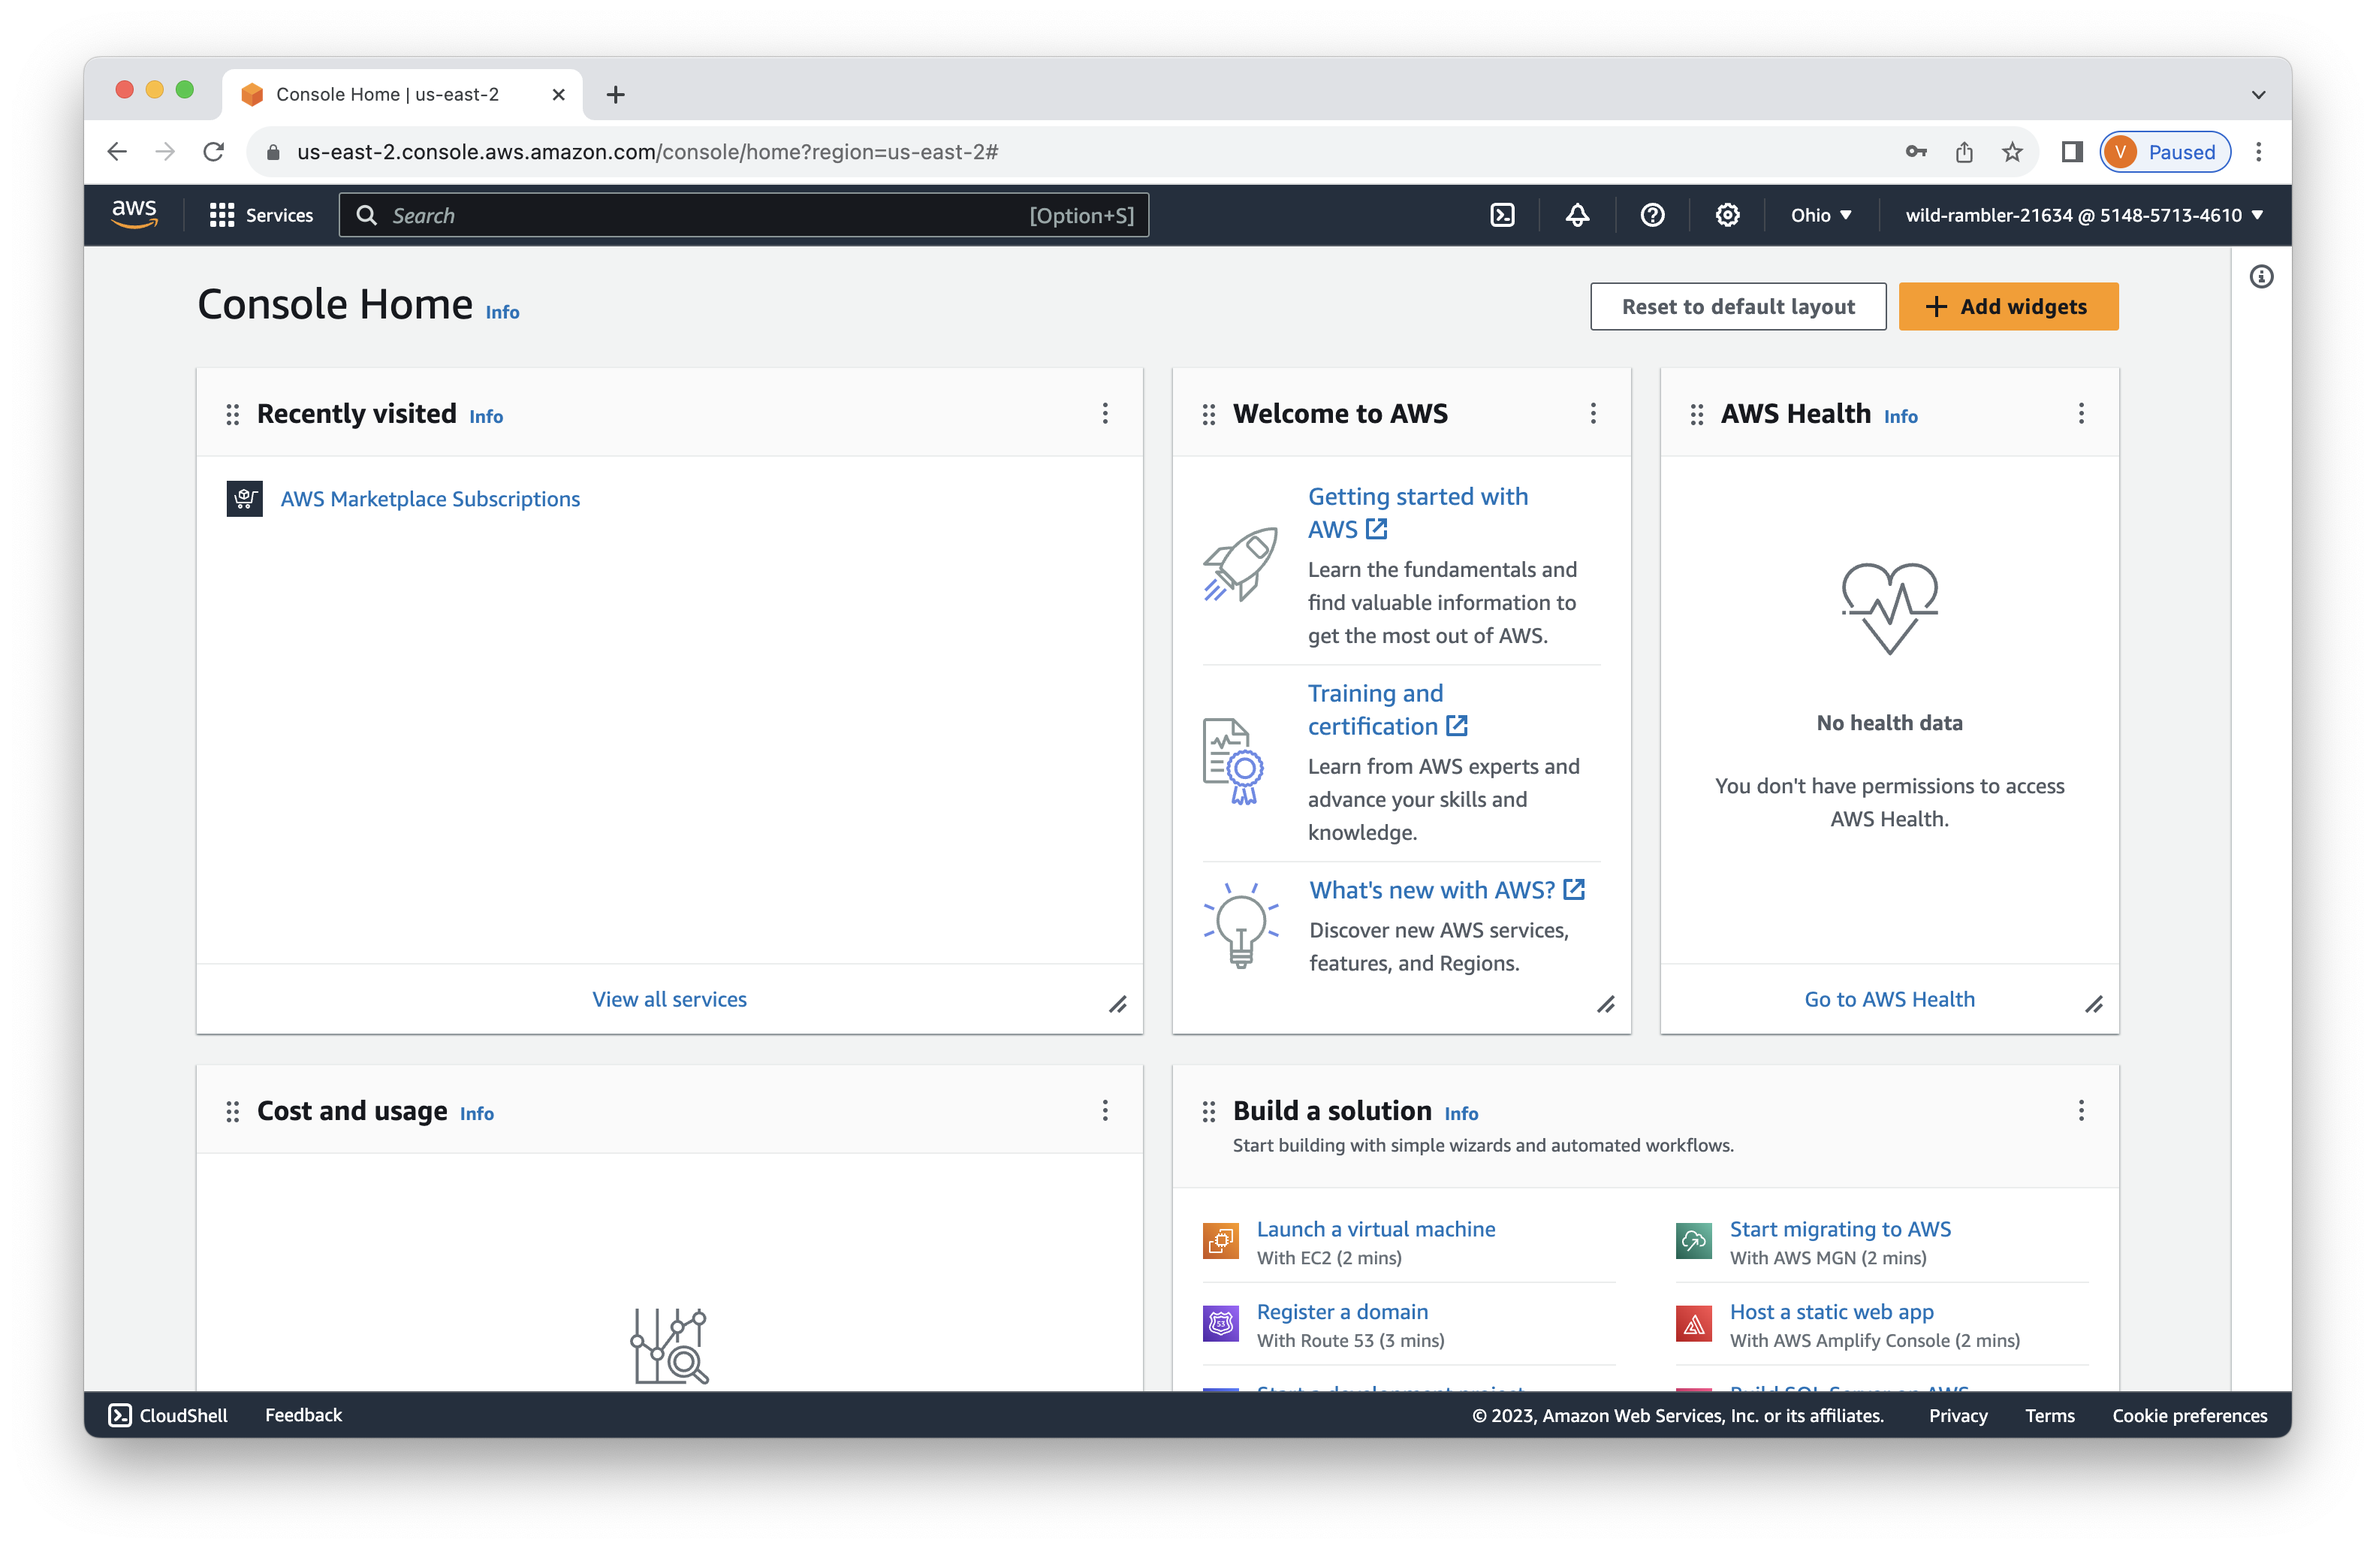
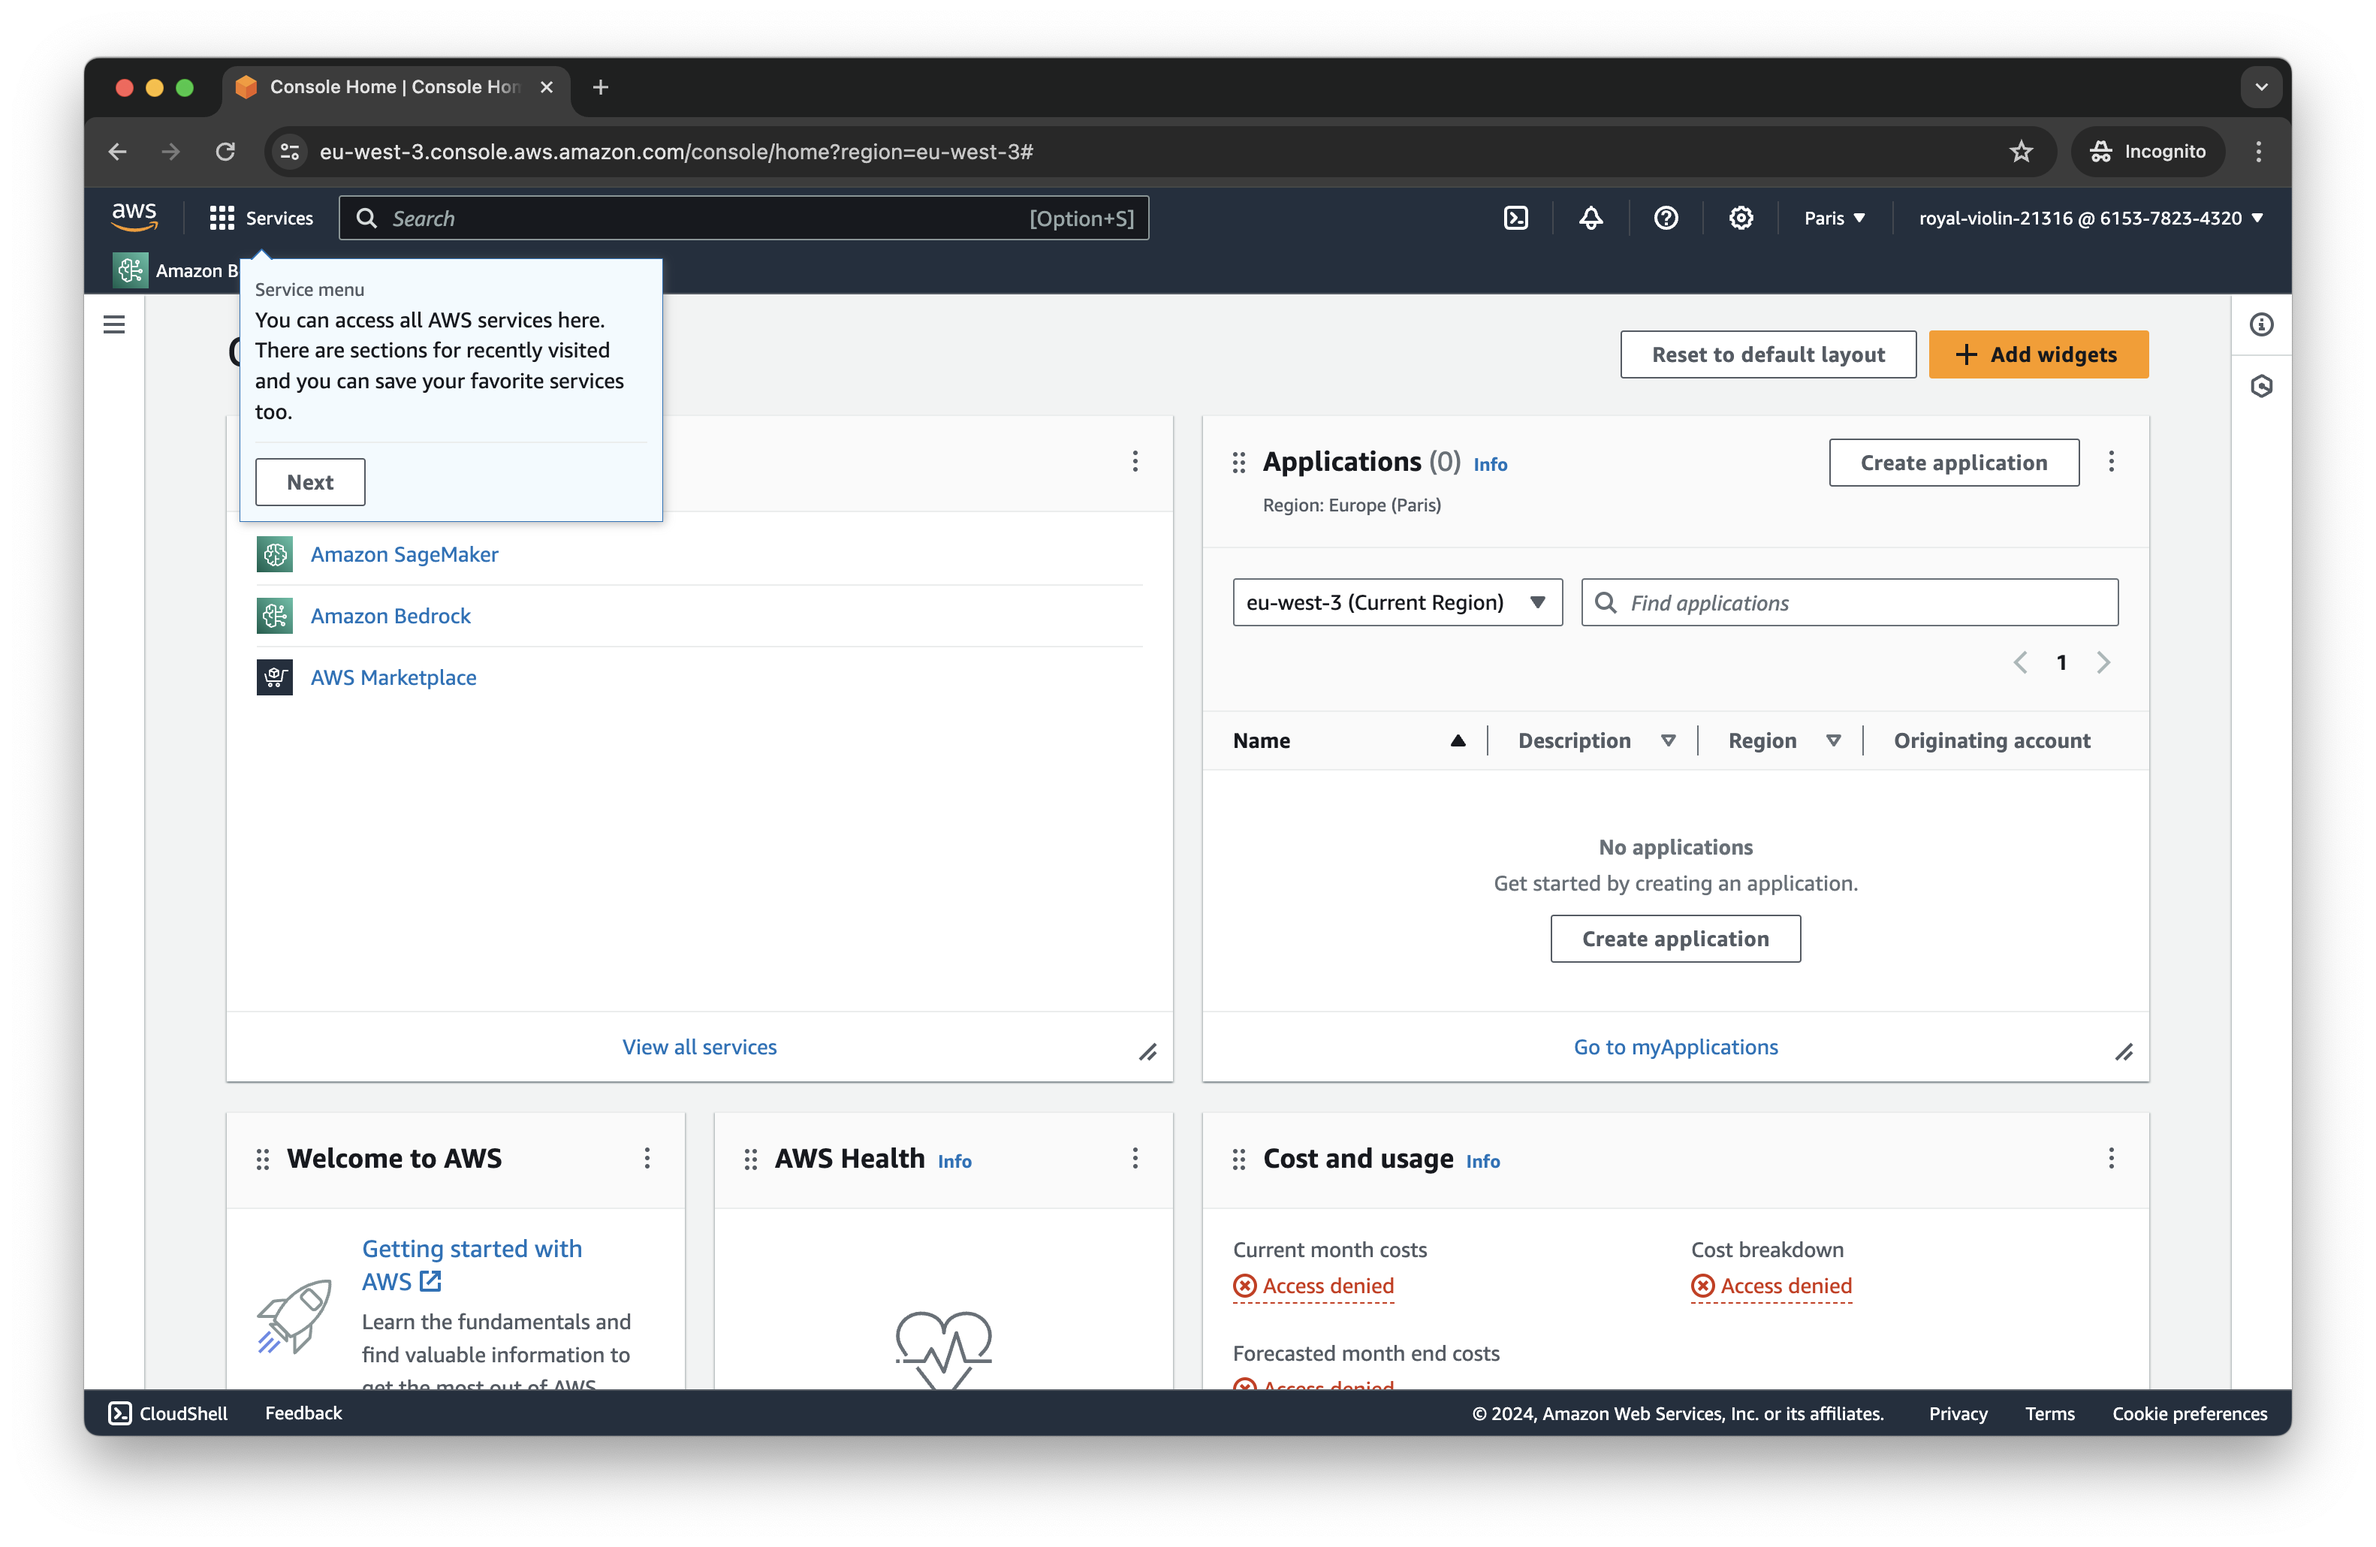
update images

diff --git a/Lab 0 - Sign In/README.md b/Lab 0 - Sign In/README.md
@@ -24,4 +24,4 @@ We're now authenticated and logged into the AWS console.
 
 ![](images/04.png)
 
-In the next lab we'll deploy Neo4j.
+At this point you can click through to dismiss any help dialogs.  In the next lab we'll deploy Neo4j.
